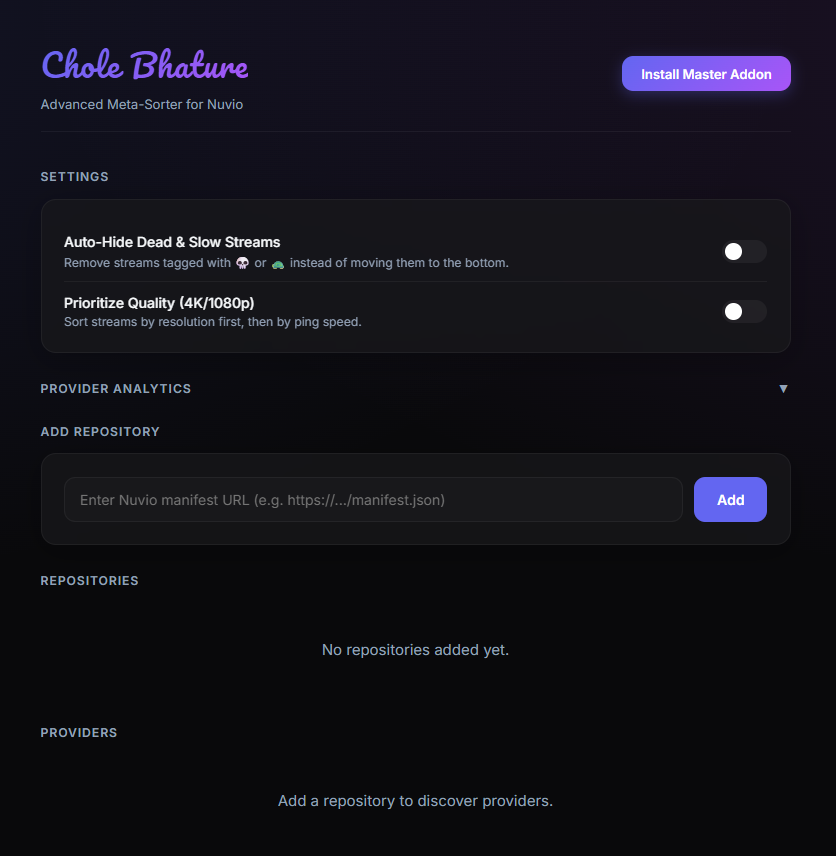
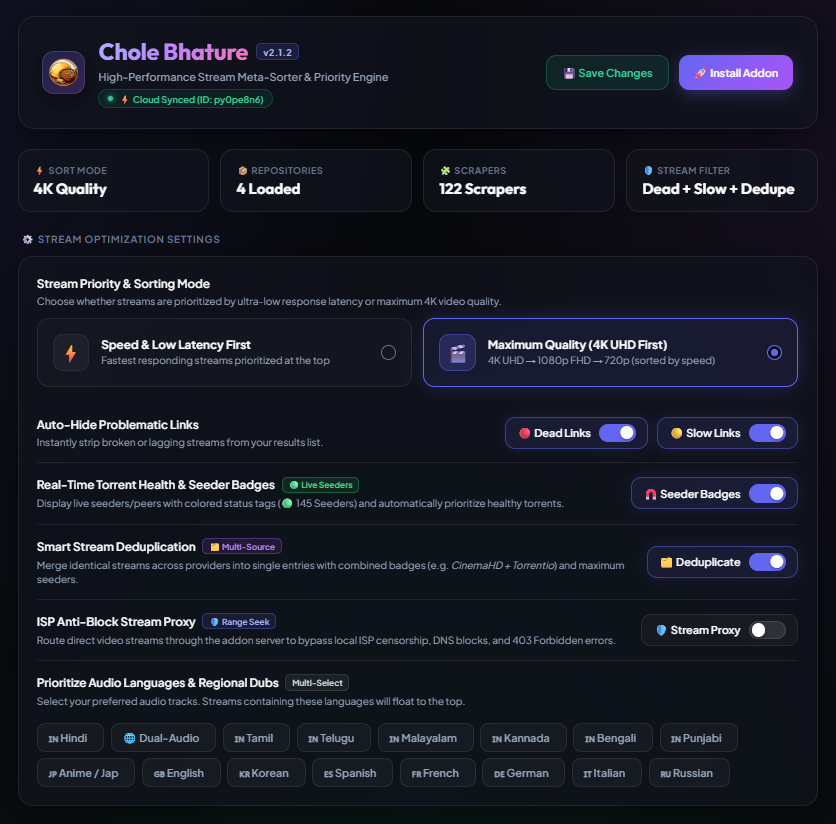
Revamp README with new branding and docs
Rewrites README.md to a modern, branded layout: new header, badges, logo, larger screenshot and a features table. Adds expanded Overview, Intelligent Sorting Modes, Getting Started (hosted + local), tech stack, and updated Node requirement (>=18). Clarifies features like latency probing, deduplication, P2P health and proxying. Replaces screenshot.png with an updated image asset. Cosmetic and documentation-only change to improve onboarding and clarity.

diff --git a/README.md b/README.md
@@ -1,56 +1,98 @@
-<h1 align="center">
-  Chole Bhature <br>
-  <span style="font-size: 20px; font-weight: 400;">Advanced Meta-Sorter Addon for Nuvio & Stremio</span>
-</h1>
+<div align="center">
 
-<p align="center">
-  <img alt="Version" src="https://img.shields.io/badge/version-2.1.0-blue.svg?cacheSeconds=2592000" />
-  <img alt="License: ISC" src="https://img.shields.io/badge/License-ISC-yellow.svg" />
-  <img alt="Node Version" src="https://img.shields.io/badge/node-%3E%3D14.0.0-brightgreen" />
-  <br><br>
-  <img src="screenshot.png" alt="Chole Bhature Configuration UI" width="800" style="border-radius: 12px; box-shadow: 0 8px 32px rgba(0,0,0,0.4);" />
-</p>
+  <img src="public/icon-512.png" alt="Chole Bhature Logo" width="120" height="120" style="border-radius: 28px; margin-bottom: 12px;" />
 
-## 🎬 What is this?
-**Chole Bhature** is a blazing-fast, dynamic Meta-Sorter backend for Nuvio and Stremio. 
+  # Chole Bhature
+  ### High-Performance Stream Meta-Sorter & Priority Engine for Nuvio & Stremio
 
-Instead of dealing with endless buffering and dead links, this addon intercepts your stream requests, concurrently executes 40+ provider scrapers, **live-pings every single stream**, and perfectly sorts them based on latency and quality before serving them to your screen. 
+  [![Version](https://img.shields.io/badge/version-2.1.2-indigo.svg?style=for-the-badge)](https://github.com)
+  [![Platform](https://img.shields.io/badge/Platform-Nuvio%20%7C%20Stremio-purple.svg?style=for-the-badge)](https://stremio.com)
+  [![License](https://img.shields.io/badge/License-ISC-amber.svg?style=for-the-badge)](LICENSE)
+  [![Node](https://img.shields.io/badge/node-%3E%3D18.0.0-emerald.svg?style=for-the-badge)](https://nodejs.org)
 
-## ✨ Features
-* ⚡ **Lightning Fast Ping Sorting:** Streams are sorted dynamically by how fast they respond to your device.
-* 💀 **Auto-Hide Dead/Slow Streams:** Optionally filter out slow (🐢) or dead (💀) streams entirely so you only ever see fast links.
-* 📺 **Prioritize Quality:** Optionally sort by highest resolution (4K > 1080p > 720p) first, using ping speed as a tie-breaker.
-* 📊 **Live Analytics Dashboard:** See real-time metrics on which providers are giving you the most fast, slow, or dead links.
-* 🧠 **Smart Caching:** Identical requests are cached in memory so repeating a search is instantaneous.
-* ⚙ **One-Click Configuration UI:** A beautiful, mobile-friendly configuration page to manage your repositories and install the addon directly into Stremio/Nuvio.
+  <br>
+
+  <img src="screenshot.png" alt="Chole Bhature Configuration UI" width="850" style="border-radius: 14px; border: 1px solid rgba(255,255,255,0.1); box-shadow: 0 12px 40px rgba(0,0,0,0.6);" />
+
+</div>
 
 ---
 
-## 🚀 How to Run Locally
+## 🌟 Overview
 
-You can run the Meta-Sorter directly on your own computer.
+**Chole Bhature** is a high-performance stream meta-sorter and priority engine designed for **Nuvio** and **Stremio**. 
 
-1. Clone the repository:
-   ```bash
-   git clone https://github.com/your-username/chole_bhature-metasorter-addon.git
-   ```
-2. Install dependencies:
-   ```bash
-   npm install
-   ```
-3. Start the server:
-   ```bash
-   npm start
-   ```
-4. Open [http://localhost:7000/configure](http://localhost:7000/configure) in your browser.
+Instead of waiting through buffering wheels or clicking broken links, Chole Bhature intercepts stream requests from **120+ scrapers across multiple repositories**, concurrently **live-probes every stream for latency and health**, eliminates duplicates, and serves a cleanly formatted, deterministic stream list tailored to your exact audio, quality, and speed preferences.
 
 ---
 
-## 🛠 Built With
-- **Node.js** & **Express** - Backend server & routing
-- **Stremio Addon SDK** - Interfacing with Nuvio/Stremio
-- **Crypto-JS & Cheerio** - Parsing provider manifests and links
-- **Vanilla CSS/JS** - Beautiful, lightweight frontend configuration page
+## ✨ Key Features
+
+| Feature | Description |
+| :--- | :--- |
+| ⚡ **Real-Time Latency Probing** | Concurrently tests HTTP/HLS streams via lightweight `HEAD`/`Range` requests. Dynamically tags links with `🟢 FAST (<800ms)`, `🟡 SLOW (≥800ms)`, or `🔴 DEAD`. |
+| 🎬 **Strict 4K UHD Hierarchy** | Strict resolution-first ordering (`4K UHD` > `1080p FHD` > `720p HD` > `480p SD`). Lower resolutions will never leapfrog 4K content in Quality mode. |
+| 🧲 **Smart P2P Torrent Health** | Accurately maps torrent swarm seeders to health badges (`🟢 20+ Healthy`, `🟡 5–19 Moderate`, `🔴 1–4 Buffering Risk`) to prevent stalled playback. |
+| 🌐 **Regional & Multi-Audio Priority** | Float preferred languages (`Hindi`, `Tamil`, `Telugu`, `Malayalam`, `Dual-Audio`, `Anime/Jap`, etc.) directly to the top of your stream list. |
+| 🧩 **Multi-Source Deduplication** | Merges identical streams found across different providers into unified entries with multi-source badges (e.g. `CinemaHD + Torrentio`) and maximum seeder counts. |
+| 🛡 **Anti-Block Stream Proxy** | Built-in HTTP range-seeking proxy bypasses ISP censorship, DNS poisoning, and `403 Forbidden` CDN blocks. |
+| ☁ **Instant Cloud Sync** | Save your configuration once on the web UI and changes sync live to your player—no need to reinstall the addon! |
+| 🏷 **Rich Metadata Badges** | Automatically extracts and displays badges for `HDR10`, `Dolby Vision`, `IMAX`, `REMUX`, `HEVC`, `Dolby Atmos`, `5.1/7.1 Audio`, and file size. |
+
+---
+
+## 🎛 Intelligent Sorting Modes
+
+Choose how your streams are ranked in the configuration dashboard:
+
+1. **⚡ Speed & Low Latency First (Default)**: Prioritizes the fastest responding streams with the lowest millisecond ping first.
+2. **🎬 Maximum Quality (4K UHD First)**: Strict resolution tiering (`2160p` > `1080p` > `720p`), sorted by ping speed and release quality (`REMUX` > `BluRay` > `WEB-DL`) within each tier.
+3. **⚖ Smart Balanced**: High-efficiency matrix prioritizing `4K Fast` > `1080p Fast` > `4K Slow` > `1080p Slow` > `720p Fast`.
+4. **🧲 P2P Seeders First**: Ranks torrent streams by highest active seeder count and overall swarm health.
+
+---
+
+## 🚀 Getting Started
+
+### 🌐 Hosted / Cloud Deployment (Recommended)
+You can deploy Chole Bhature directly to **Vercel** with zero server management:
+
+1. Push this repository to your GitHub account.
+2. Import the project in [Vercel](https://vercel.com).
+3. Open your Vercel deployment URL (e.g. `https://your-addon.vercel.app/configure`).
+4. Customize your repositories, language preferences, and sorting modes.
+5. Click **🚀 Install Addon** to add directly to Stremio or Nuvio!
+
+---
+
+### 💻 Running Locally
+
+```bash
+# 1. Clone the repository
+git clone https://github.com/your-username/chole-bhature.git
+cd chole-bhature
+
+# 2. Install dependencies
+npm install
+
+# 3. Start the server
+npm start
+```
+
+Open [http://localhost:7000/configure](http://localhost:7000/configure) in your browser.
+
+---
+
+## 🛠 Tech Stack & Architecture
+
+* **Runtime:** Node.js (ES6+)
+* **Server Framework:** Express.js (Vercel Serverless Compatible)
+* **SDK:** Stremio Addon SDK (`stremio-addon-sdk`)
+* **Scraper Engine:** Axios, Cheerio, Crypto-JS (AES / CryptoJS decryptors)
+* **Frontend:** Vanilla HTML5, CSS3 Glassmorphism, Responsive PWA with Service Worker `v7` offline shell
+
+---
 
 ## 📝 License
-This project is licensed under the ISC License.
+
+This project is open-source and licensed under the **ISC License**.
